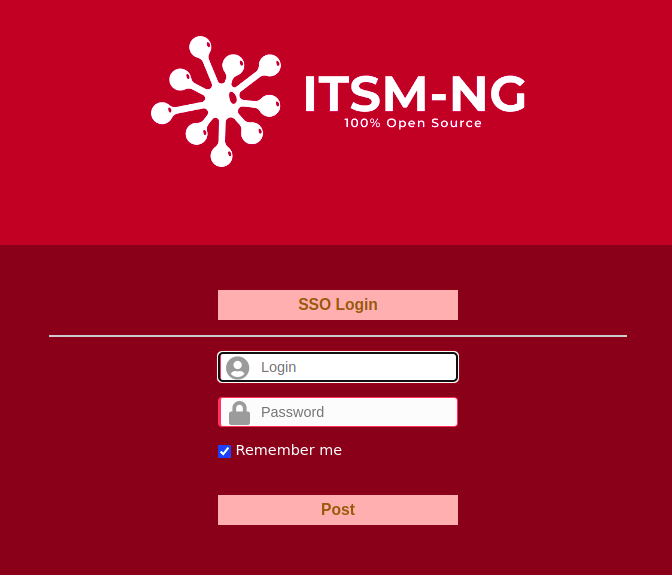
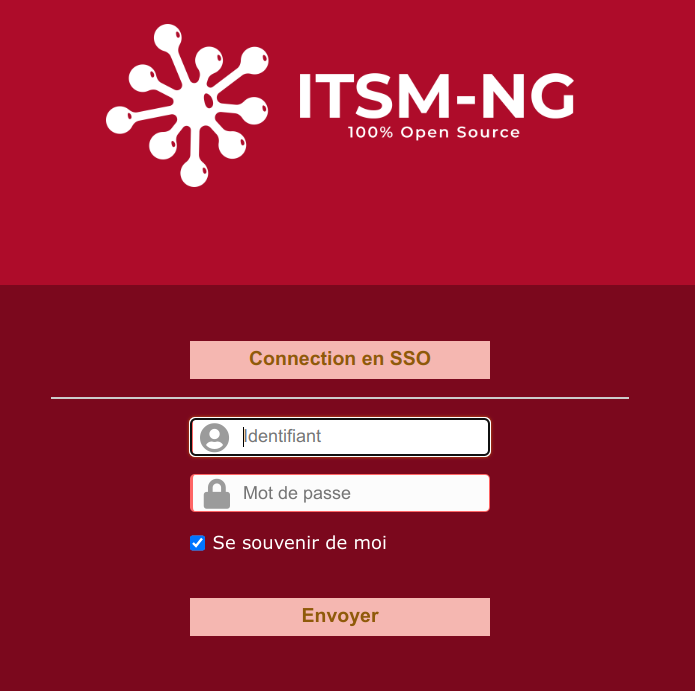
docs: translate in french

diff --git a/Configuration/oidc.md b/Configuration/oidc.md
@@ -16,43 +16,43 @@ OpenID Connect ajoute une couche d'authentification au cadre d'autorisation OAut
 
 ITSM-NG utilise PHP OpenID Connect Basic Client de `jumbojett`, une bibliothèque simple qui permet à une application d'authentifier un utilisateur à travers le flux OpenID Connect.
 
-## How to setup ITSM-NG with OpenID Connect
+## Comment configurer ITSM-NG avec OpenID Connect ?
 
-On ITSM-NG, navigate to the `Setup` section, then select `Authentication`. On the displayed page, choose `OpenID connect authentication`. 
+Sur ITSM-NG, naviguez vers la section `Configuration`, puis sélectionnez `Authentification`. Sur la page affichée, choisissez `Authentication avec OpenID Connect`. 
 
-The following instructions will guide you through the configuration process : 
+Les instructions suivantes il vous guideront tout au long du processus de configuration : 
 
 ### Configuration
 
 ![](/files/img/oidc/oidc_config.png)
 
-On this first pane (see above image), `Activate openID connect` needs to be set to `Yes`.
+Dans le premier panneau (voir l'image ci-dessus), `Activer OpenID Connect ` doit être réglé sur `Oui`.
 
-`Note : forced connection will redirect you directly when reaching the login page. To bypass the redirection, use the following link : http://xx.xx.xx.xx/itsm-ng/index.php?noAUTO=1`
+`Note : La connexion forcée vous redirigera directement vers la page de connexion. Pour contourner la redirection, utilisez le lien suivant : http://xx.xx.xx.xx/itsm-ng/index.php?noAUTO=1`
 
-The `Provider`, `Client ID` and `Client Secret` fields **are required** and must be completed with corresponding information from your authorization provider in order to use OpenID Connect.
+Les champs `Provider`, `Client ID` et `Client Secret` **sont obligatoires** et doivent être complétés avec les informations correspondant à votre fournisseur d'autorisation afin d'utiliser OpenID Connect.
 
-Don't forget to `Save` the configuration.
+N'oubliez pas d'enregistrer la configuration.
 
-### Mapping
+### Mappage
 
-The mapping configuration allows you to link OIDC user information in ITSM-NG user.
+La configuration du mappage vous permet de lier les informations de l'utilisateur OIDC à celles de l'utilisateur ITSM-NG.
 
-To access the mapping configuration pane, click on `Mapping`.
+Pour accéder au panneau de configuration du mappage, cliquez sur `Mappage`.
 
 
 
 ![](/files/img/oidc/oidc_mapping.png)
 
-To force the update of OIDC users information in ITSM-NG, use the following command :
+Pour forcer la mise à jour des informations sur les utilisateurs OIDC dans ITSM-NG, utilisez la commande suivante :
 
     php bin/console itsmng:oidc:update
 
-After activating OpenID connect, a new button will appear on the login page.
+Après avoir activé OpenID connect, un nouveau bouton apparaîtra sur la page de connexion.
 
 ![](/files/img/oidc/oidc_login.png)
 
-If you click on `SSO Login`, you will be redirected to your provider and you will be able to login. Once done, access to ITSM-NG is granted.
+Si vous cliquez sur `SSO Login`, vous serez redirigé vers votre fournisseur et vous pourrez vous connecter. L'accès à ITSM-NG vous sera alors accordé.
 
 ## Liens utiles
 
